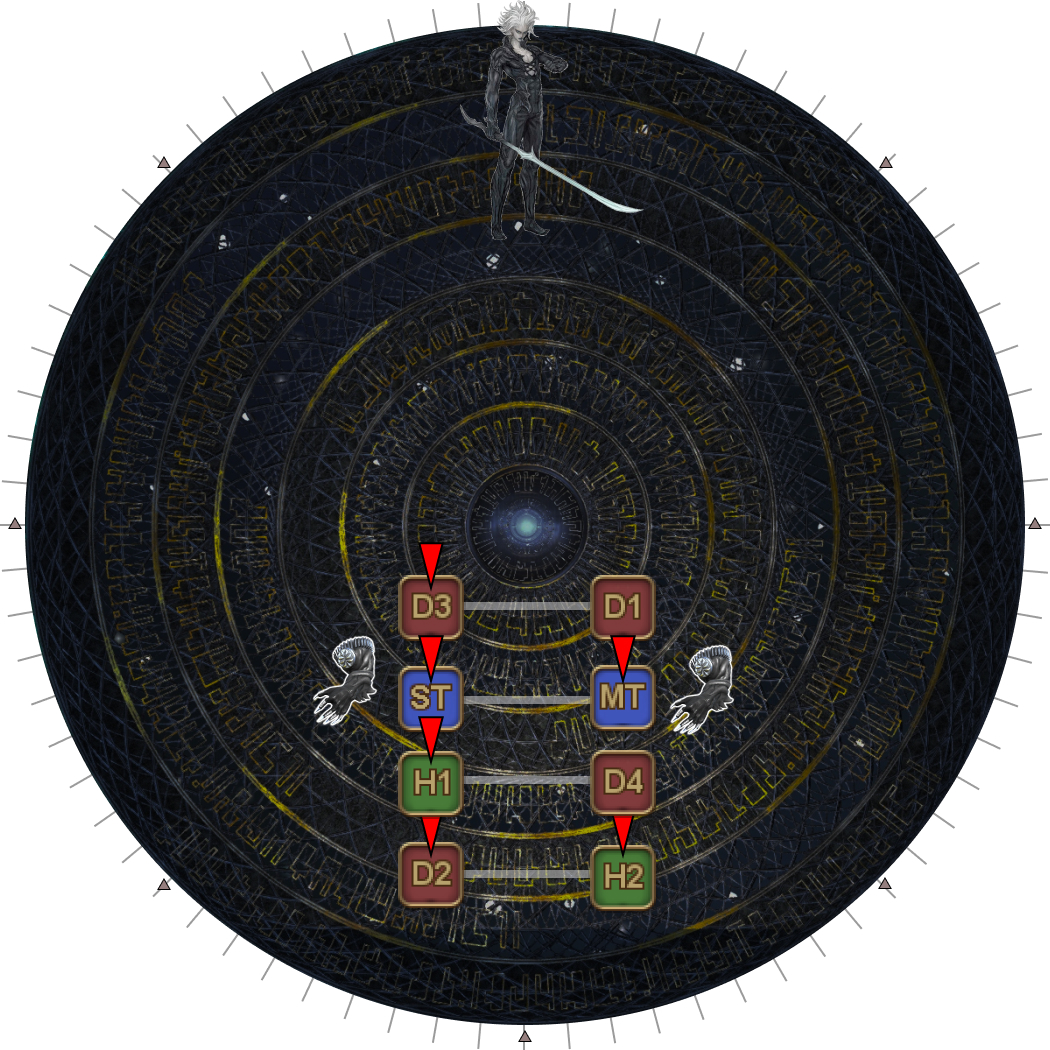
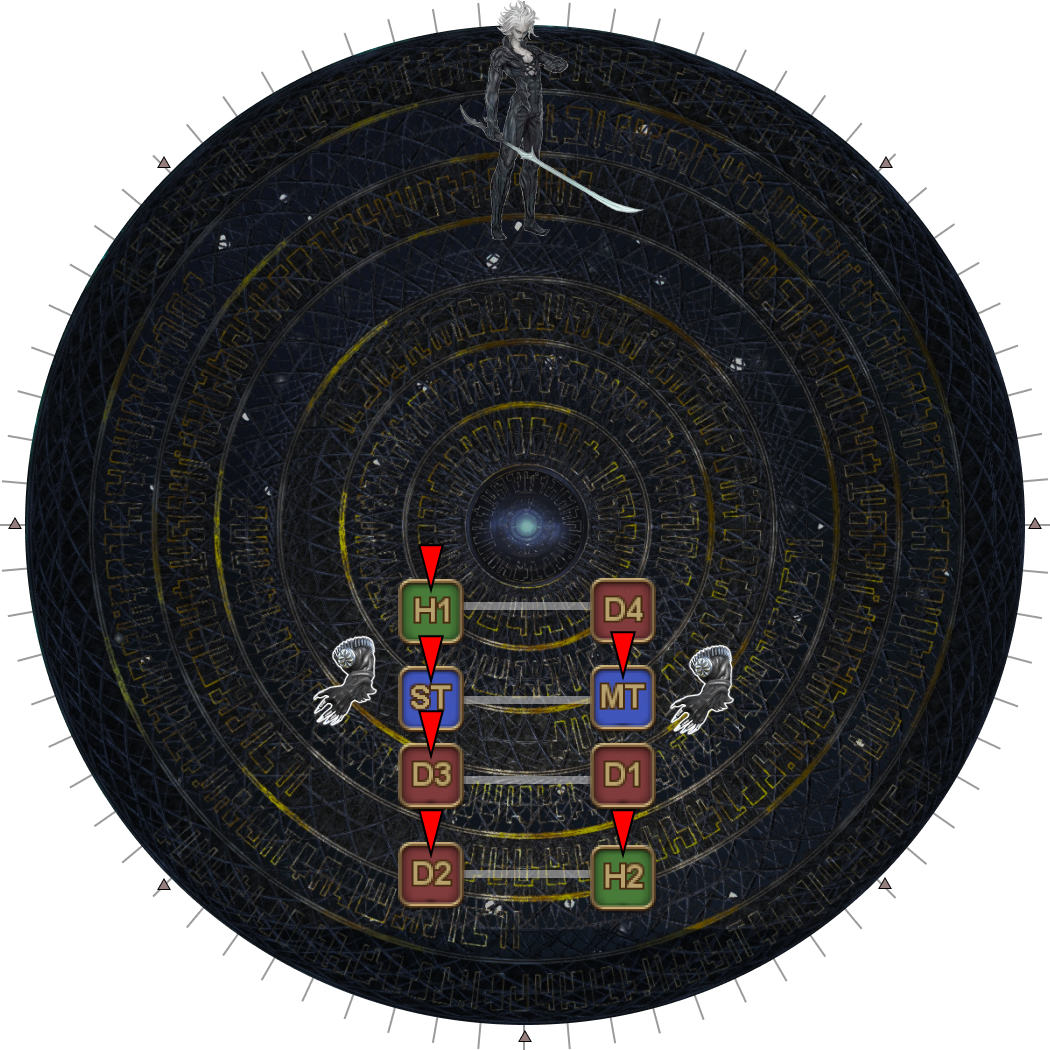
Add info on when to break tethers in Delta. Swap Sigma hand baits to match Dylan's strat

diff --git a/ultimates/top/en/05_run_dynamis.md b/ultimates/top/en/05_run_dynamis.md
@@ -108,8 +108,7 @@ Breaking this down, we get:
     <ul>
       <li><b>The inner green-tether pair:</b>
         <ol>
-          <li><b>Wait for <em>everyone's</em> Twice-come ruin debuff</em> to wear off</b> (8 seconds).</li>
-          <li>Break the tether.</li>
+          <li>Break the tether when the <b>tether's debuff timer reaches 15 seconds</b>.</li>
           <li>Position to receive Hello, Near World.</li>
         </ol>
       </li>
@@ -137,7 +136,7 @@ Breaking this down, we get:
     <td><img src="../images/05_run_dynamis/run_dynamis_delta_08.jpg"></td>
   </tr>
   <tr>
-    <td><p><b>9.</b> The cleave resolves, along with Hello, Near World and Hello, Distant World.</p><p><b>Wait for everybody's Magic Vulnerability to wear off</b> (5 seconds) before breaking the last red/green tether.</p></td>
+    <td><p><b>9.</b> The cleave resolves, along with Hello, Near World and Hello, Distant World.</p><p><b>Break the final red/green tether <b>when the tether's debuff timer reaches 2 seconds</b>.</p></td>
     <td><img src="../images/05_run_dynamis/run_dynamis_delta_09.jpg"></td>
   </tr>
 </table>
@@ -166,8 +165,8 @@ Breaking this down, we get:
       </li>
       <li><p><em>Pairs with one marker:</em></p>
         <ul>
-          <li><em>D3 and D1 are the top pair.</em></li>
-          <li><em>H1 and D4 are the bottom pair.</em></li>
+          <li><em>H1 and D4 are the top pair.</em></li>
+          <li><em>D3 and D1 are the bottom pair.</em></li>
         </ul>
       </li>
     </ul></td>
@@ -184,8 +183,8 @@ Breaking this down, we get:
       </li>
       <li><p>Pairs with one marker:</p>
         <ul>
-          <li>The top pair goes NW/SE <em>(player without a marker goes NW)</em>.</li>
-          <li>The bottom pair goes NE/SW <em>(player without a marker goes NE)</em>.</li>
+          <li>The top pair goes SW/NE <em>(player without a marker goes NE)</em>.</li>
+          <li>The bottom pair goes SE/NW <em>(player without a marker goes NW)</em>.</li>
         </ul>
       </li>
     </ul>
